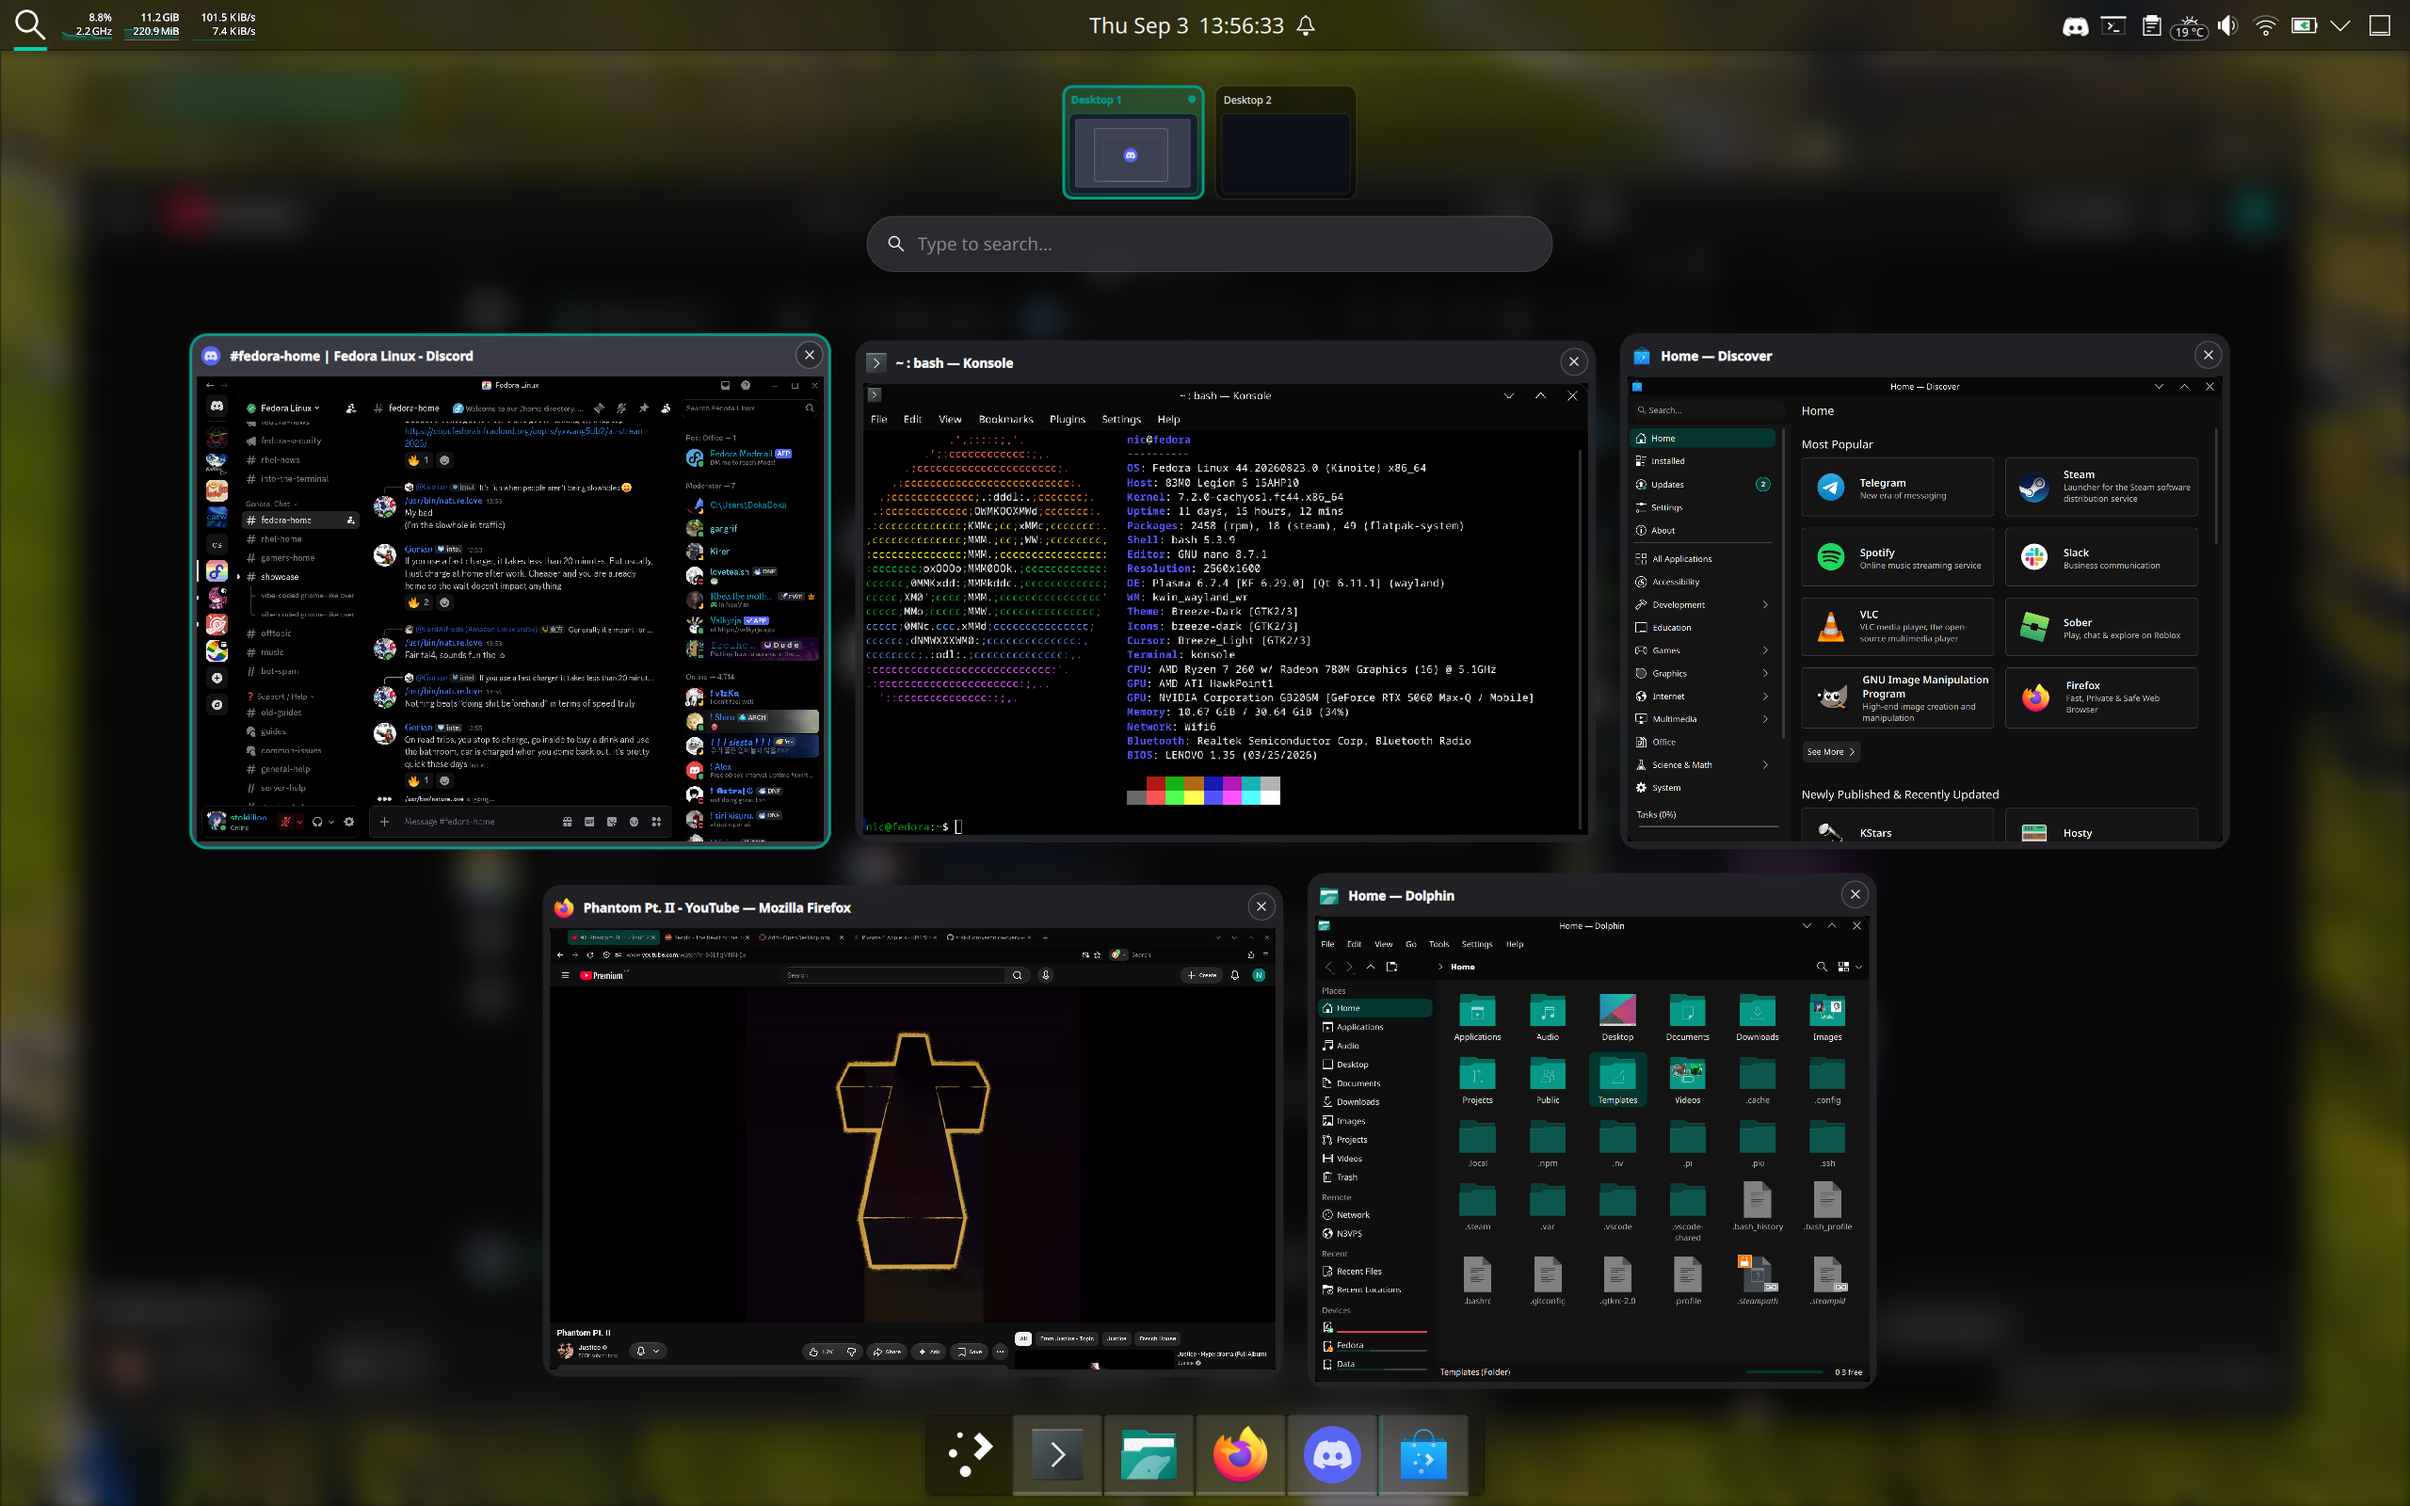
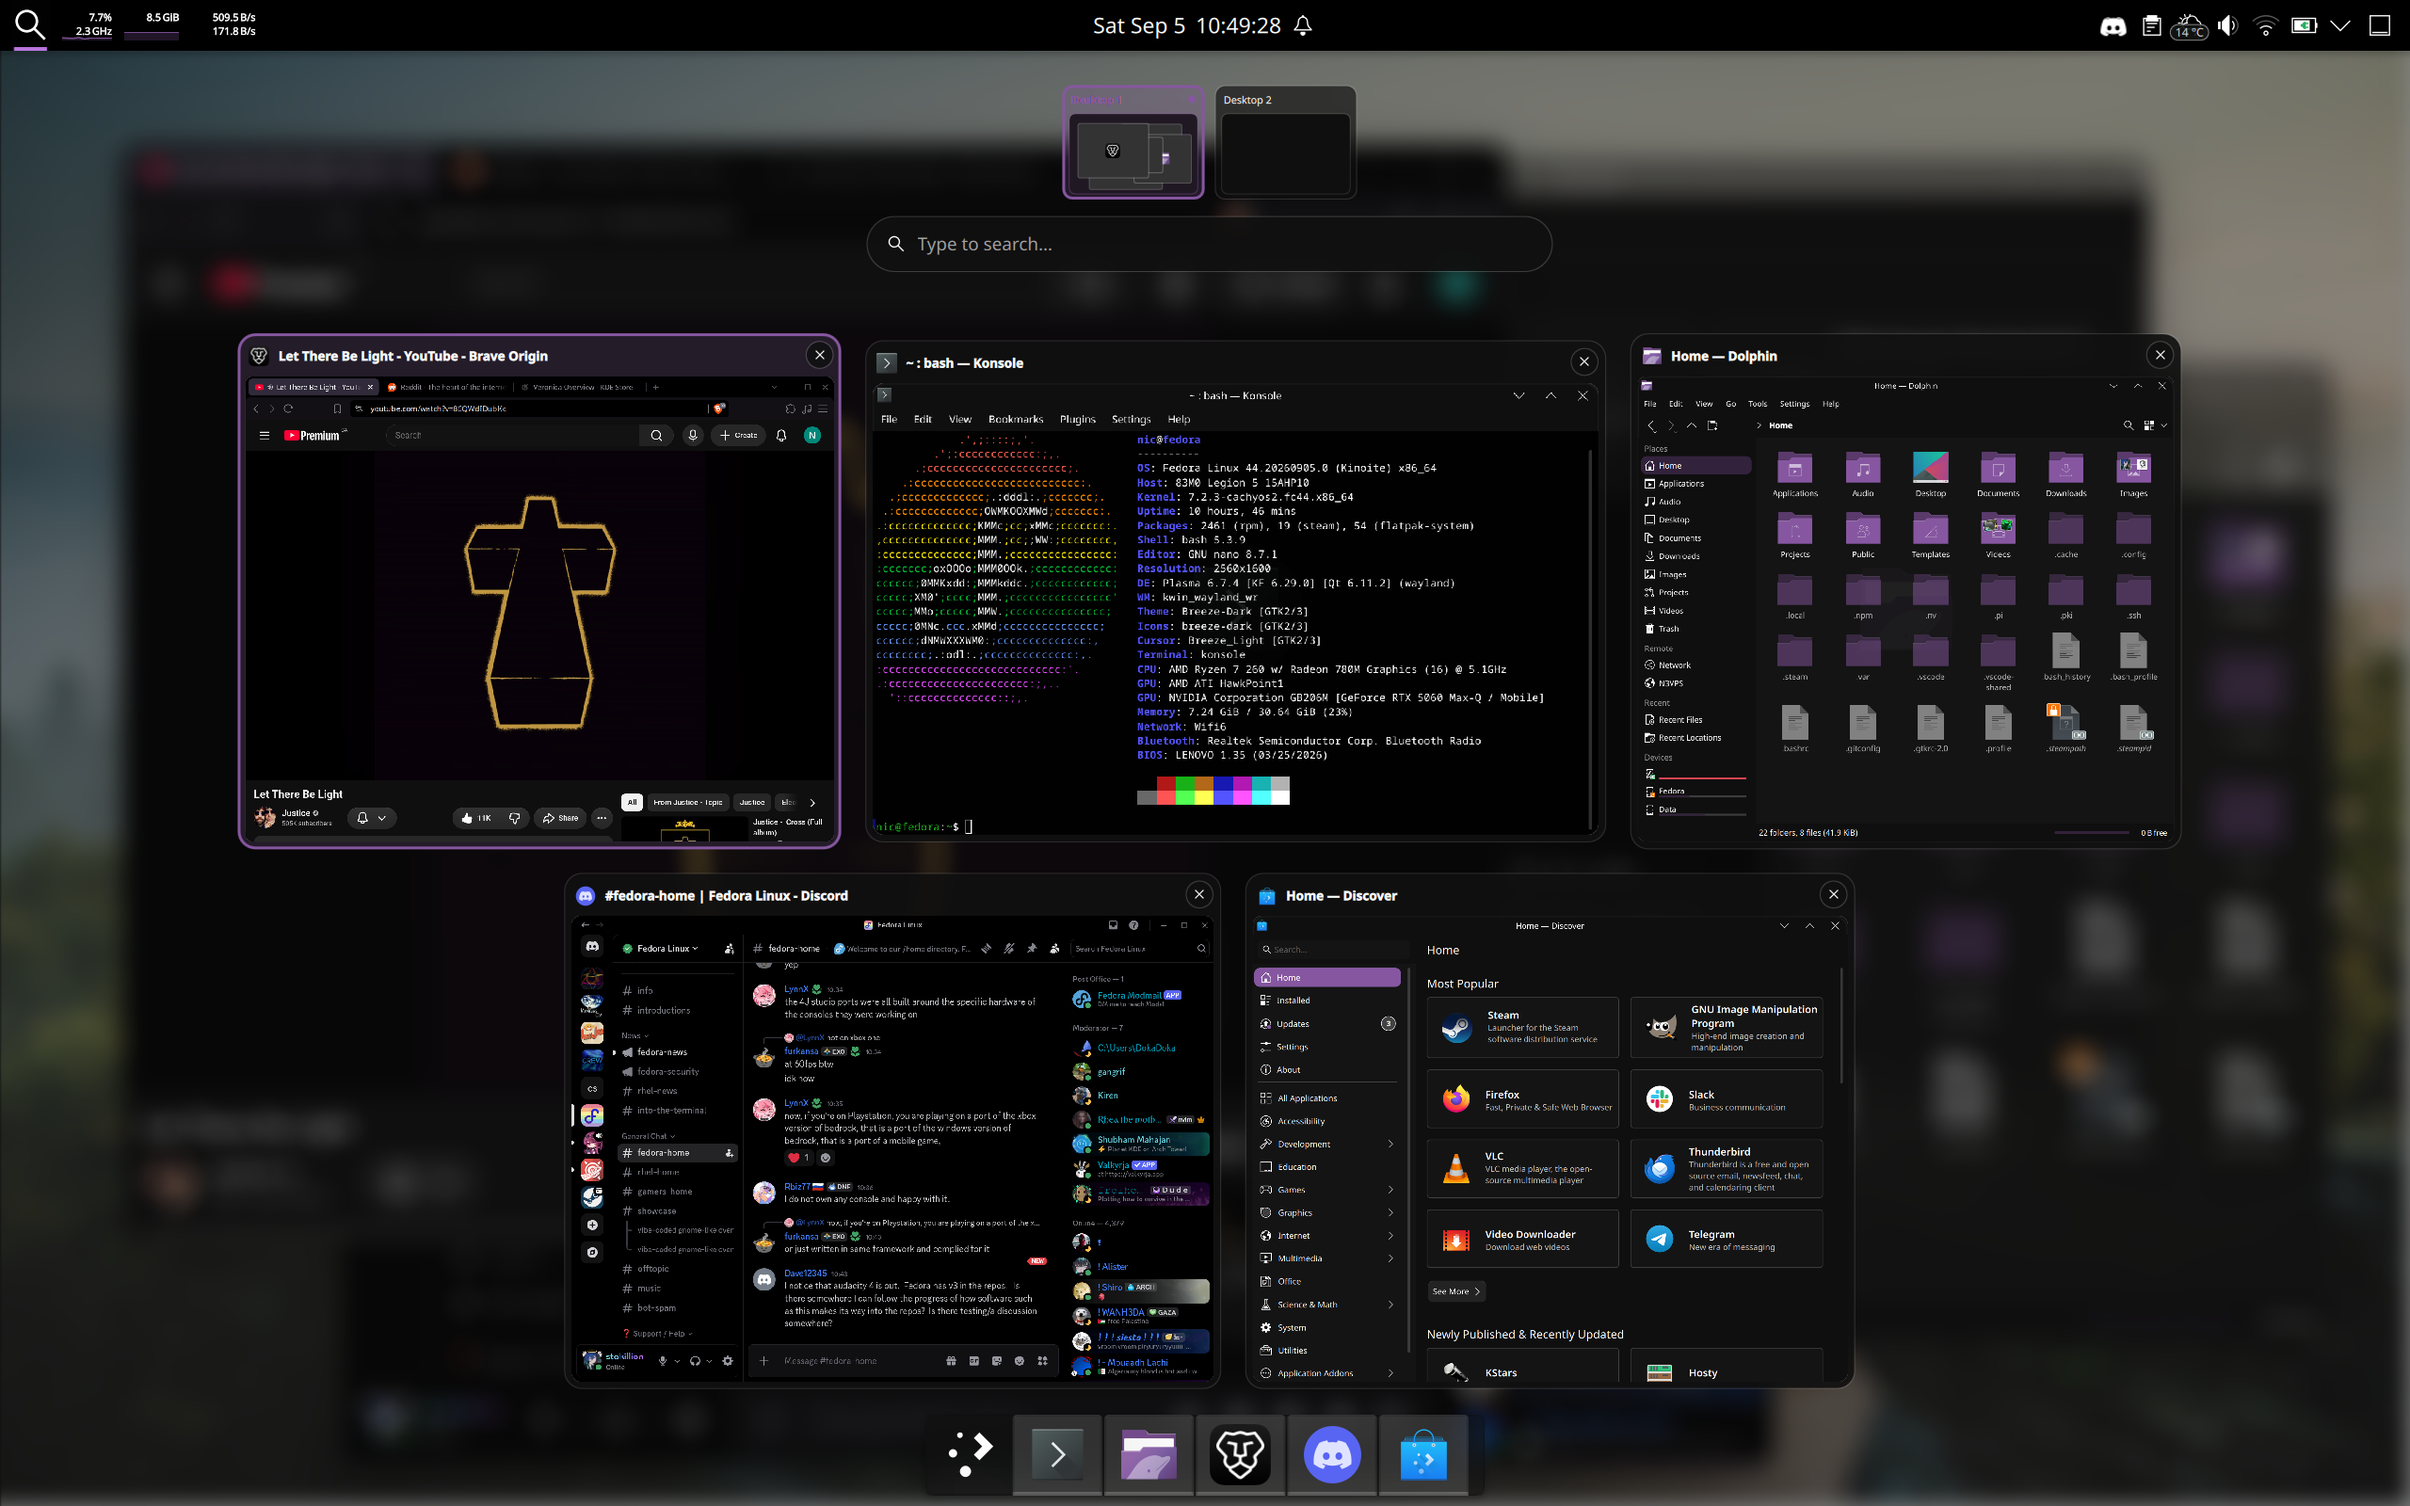
improve fade animation

diff --git a/contents/ui/main.qml b/contents/ui/main.qml
@@ -116,8 +116,8 @@ PlasmoidItem {
                     return;
                 }
 
-                // Regular unminimized application window was focused
-                root.closeOverview();
+                // Regular unminimized application window was focused (e.g. from taskbar)
+                root.closeImmediately();
             }
         }
     }
@@ -127,7 +127,18 @@ PlasmoidItem {
         return url.replace(/^file:\/\//, "");
     }
 
+    property bool kwinScriptLoaded: false
+
     function ensureKWinScriptLoaded() {
+        if (root.kwinScriptLoaded) return;
+        root.kwinScriptLoaded = true;
+        DBus.SessionBus.asyncCall({
+            service: "org.kde.KWin",
+            path: "/Scripting",
+            iface: "org.kde.kwin.Scripting",
+            member: "unloadScript",
+            arguments: [root.kwinScriptPath]
+        });
         DBus.SessionBus.asyncCall({
             service: "org.kde.KWin",
             path: "/Scripting",
@@ -160,6 +171,8 @@ PlasmoidItem {
         root.ensureKWinScriptLoaded();
         root.ignoreWindowMoveActivation = false;
         root.lastSwitchedDesktop = null;
+        root.pendingWindowActivation = null;
+        closeTimer.stop();
         if (globalFocusMonitor.activeTask && globalFocusMonitor.activeTask.valid) {
             const winIds = globalFocusMonitor.data(globalFocusMonitor.activeTask, TaskManager.AbstractTasksModel.WinIdList);
             if (winIds && winIds.length > 0) {
@@ -168,16 +181,13 @@ PlasmoidItem {
         }
 
         isOverviewOpen = true;
-        overviewOverlay.opacity = 0;
-        overviewDialog.opacity = 0;
         
         if (overviewOverlay) {
             overviewOverlay.openOverview();
         }
 
+        overviewDialog.title = "Veronica Overview:open:" + root.fadeDuration;
         overviewDialog.visible = true;
-
-        fadeInAnim.restart();
 
         // Save original hiding mode ONLY if not already in temporary state, then set dodge-windows panels to 'windowsgobelow'
         DBus.SessionBus.asyncCall({
@@ -189,11 +199,22 @@ PlasmoidItem {
         });
     }
 
+    property var pendingWindowActivation: null
+
+    function closeImmediately(callback) {
+        if (!isOverviewOpen) return;
+
+        closeTimer.stop();
+        overviewDialog.title = "Veronica Overview:instant-close";
+        root.pendingWindowActivation = callback || null;
+        root.finalizeClose();
+    }
+
     function closeOverview() {
         if (!isOverviewOpen) return;
 
-        fadeInAnim.stop();
-        fadeOutAnim.restart();
+        overviewDialog.title = "Veronica Overview:close:" + root.fadeDuration;
+        closeTimer.restart();
     }
 
     function grabOverviewFocus() {
@@ -208,6 +229,7 @@ PlasmoidItem {
     function finalizeClose() {
         isOverviewOpen = false;
         overviewDialog.visible = false;
+        overviewDialog.title = "Veronica Overview";
 
         // Restore panels back to their original hiding mode and clear temporary config key
         DBus.SessionBus.asyncCall({
@@ -217,51 +239,25 @@ PlasmoidItem {
             member: "evaluateScript",
             arguments: ["var pans = panels(); for (var i = 0; i < pans.length; i++) { pans[i].currentConfigGroup = ['General']; var orig = pans[i].readConfig('OriginalHiding'); if (orig && orig === 'dodgewindows') { pans[i].hiding = 'dodgewindows'; pans[i].writeConfig('OriginalHiding', ''); } }"]
         });
+
+        if (root.pendingWindowActivation) {
+            const activateFn = root.pendingWindowActivation;
+            root.pendingWindowActivation = null;
+            activateFn();
+        }
     }
 
     Plasmoid.onActivated: {
         root.toggleOverview();
     }
 
-    ParallelAnimation {
-        id: fadeInAnim
-        NumberAnimation {
-            target: overviewDialog
-            property: "opacity"
-            from: overviewDialog.opacity
-            to: 1
-            duration: Kirigami.Units.shortDuration
-            easing.type: Easing.OutCubic
-        }
-        NumberAnimation {
-            target: overviewOverlay
-            property: "opacity"
-            from: overviewOverlay.opacity
-            to: 1
-            duration: Kirigami.Units.shortDuration
-            easing.type: Easing.OutCubic
-        }
-    }
+    readonly property int fadeDuration: Kirigami.Units.longDuration
 
-    ParallelAnimation {
-        id: fadeOutAnim
-        NumberAnimation {
-            target: overviewDialog
-            property: "opacity"
-            from: overviewDialog.opacity
-            to: 0
-            duration: Kirigami.Units.shortDuration
-            easing.type: Easing.InCubic
-        }
-        NumberAnimation {
-            target: overviewOverlay
-            property: "opacity"
-            from: overviewOverlay.opacity
-            to: 0
-            duration: Kirigami.Units.shortDuration
-            easing.type: Easing.InCubic
-        }
-        onFinished: {
+    Timer {
+        id: closeTimer
+        interval: root.fadeDuration
+        repeat: false
+        onTriggered: {
             root.finalizeClose();
         }
     }
@@ -330,7 +326,6 @@ PlasmoidItem {
             height: overviewDialog.lockedHeight
             isOverviewOpen: root.isOverviewOpen
             lastActiveWinId: root.lastActiveWinId
-            opacity: 0
 
             onRequestDesktopSwitch: desktopId => root.recordDesktopSwitch(desktopId)
             onRequestTaskMoved: targetDesktopId => {
@@ -338,6 +333,9 @@ PlasmoidItem {
             }
             onRequestClose: {
                 root.closeOverview();
+            }
+            onRequestCloseImmediately: callback => {
+                root.closeImmediately(callback);
             }
         }
     }

diff --git a/contents/code/overviewDesktopController.js b/contents/code/overviewDesktopController.js
@@ -1,18 +1,82 @@
 /**
- * Veronica Overview - KWin Desktop Controller
+ * Veronica Overview - KWin Desktop & Compositor Controller
  * 
- * Automatically ensures the Veronica Overview window is present on all virtual
- * desktops so that desktop switching animations and pager interactions work seamlessly
- * without requiring the user to manually configure a window rule in KDE System Settings.
+ * 1. Ensures the Veronica Overview window is present on all virtual desktops.
+ * 2. Directly drives the window opacity animation inside KWin's compositor (Kirigami longDuration: 200ms),
+ *    allowing the entire window — including KWin background blur and theme
+ *    decorations — to smoothly fade in and out with zero snapping.
+ * 3. Immediately closes without animation when a window is focused.
  */
+
+var overviewWindow = null;
+var currentAnimationTimer = null;
+var FADE_DURATION = 200;
+
+function animateWindowOpacity(w, targetOpacity, duration) {
+    if (!w) return;
+    if (currentAnimationTimer) {
+        currentAnimationTimer.stop();
+        currentAnimationTimer = null;
+    }
+
+    var startOpacity = (typeof w.opacity === "number" && !isNaN(w.opacity)) ? w.opacity : 0.0;
+    if (Math.abs(startOpacity - targetOpacity) < 0.01) {
+        w.opacity = targetOpacity;
+        return;
+    }
+
+    var startTime = Date.now();
+    var timer = new QTimer();
+    currentAnimationTimer = timer;
+    timer.interval = 16;
+    timer.timeout.connect(function() {
+        var elapsed = Date.now() - startTime;
+        var progress = Math.min(1.0, elapsed / duration);
+        // OutCubic easing
+        var eased = 1.0 - Math.pow(1.0 - progress, 3);
+        w.opacity = startOpacity + (targetOpacity - startOpacity) * eased;
+        if (progress >= 1.0) {
+            timer.stop();
+            if (currentAnimationTimer === timer) {
+                currentAnimationTimer = null;
+            }
+            w.opacity = targetOpacity;
+        }
+    });
+    timer.start();
+}
 
 function setupOverviewWindow(window) {
     if (!window) return;
     var cap = window.caption || "";
-    if (cap === "Veronica Overview" && (window.resourceClass === "plasmashell" || window.resourceName === "plasmashell")) {
+    if (cap.indexOf("Veronica Overview") !== -1 && (window.resourceClass === "plasmashell" || window.resourceName === "plasmashell")) {
+        overviewWindow = window;
         if (!window.onAllDesktops) {
             window.onAllDesktops = true;
-            console.info("[Veronica Overview] Configured onAllDesktops = true for overview window");
+        }
+        window.skipsCloseAnimation = true;
+
+        if (cap.indexOf(":instant-close") !== -1) {
+            if (currentAnimationTimer) {
+                currentAnimationTimer.stop();
+                currentAnimationTimer = null;
+            }
+            window.opacity = 0.0;
+        } else {
+            var dur = FADE_DURATION;
+            var parts = cap.split(":");
+            if (parts.length >= 3) {
+                var parsed = parseInt(parts[2], 10);
+                if (!isNaN(parsed) && parsed >= 0) {
+                    dur = parsed;
+                }
+            }
+
+            if (cap.indexOf(":close") !== -1) {
+                animateWindowOpacity(window, 0.0, dur);
+            } else {
+                animateWindowOpacity(window, 1.0, dur);
+            }
         }
     }
 }
@@ -29,6 +93,14 @@ function monitorWindow(window) {
     }
 }
 
-workspace.windowAdded.connect(monitorWindow);
+workspace.windowAdded.connect(function(window) {
+    if (!window) return;
+    var cap = window.caption || "";
+    if (cap.indexOf("Veronica Overview") !== -1 && (window.resourceClass === "plasmashell" || window.resourceName === "plasmashell")) {
+        window.opacity = 0.0;
+    }
+    monitorWindow(window);
+});
+
 workspace.windowList().forEach(monitorWindow);
 console.info("[Veronica Overview] KWin desktop controller active");

diff --git a/contents/ui/OverviewOverlay.qml b/contents/ui/OverviewOverlay.qml
@@ -21,6 +21,7 @@ FocusScope {
     property int cardRadius: Plasmoid.configuration.cardBorderRadius !== undefined ? Plasmoid.configuration.cardBorderRadius : 14
 
     signal requestClose()
+    signal requestCloseImmediately(var activationCallback)
     signal requestDesktopSwitch(var desktopId)
     signal requestTaskMoved(var targetDesktopId)
 
@@ -356,7 +357,10 @@ FocusScope {
                     overviewOpen: root.isOverviewOpen
                     layoutRefreshTick: carouselTrack.layoutRefreshTick
 
-                    onTaskActivated: root.dismissOverview()
+                    onTaskActivated: activationCallback => {
+                        if (searchBar) searchBar.text = "";
+                        root.requestCloseImmediately(activationCallback);
+                    }
                     onTaskClosed: {
                         carouselTrack.layoutRefreshTick++;
                     }
@@ -506,7 +510,8 @@ FocusScope {
                 queryString: searchBar.text
                 onActivated: {
                     Qt.callLater(() => {
-                        root.dismissOverview();
+                        if (searchBar) searchBar.text = "";
+                        root.requestCloseImmediately();
                     });
                 }
             }

diff --git a/contents/ui/WindowGrid.qml b/contents/ui/WindowGrid.qml
@@ -21,7 +21,7 @@ Item {
     property int layoutRefreshTick: 0
     property var lastActiveWinId: null
 
-    signal taskActivated()
+    signal taskActivated(var activationCallback)
     signal taskClosed()
     signal emptyAreaClicked()
     signal windowDragStarted(int pageIndex, int taskRow, var winIds, string title, var icon, string appName, real cardW, real cardH, real aspect, real globalOriginX, real globalOriginY, real grabX, real grabY)
@@ -42,9 +42,17 @@ Item {
 
     function activateTask(taskRow) {
         if (taskRow >= 0 && taskRow < pageTasksModel.count) {
-            pageTasksModel.requestActivate(pageTasksModel.makeModelIndex(taskRow));
+            const targetIndex = pageTasksModel.makeModelIndex(taskRow);
+            pageRoot.taskActivated(() => {
+                if (targetIndex && targetIndex.valid) {
+                    pageTasksModel.requestActivate(targetIndex);
+                } else if (taskRow >= 0 && taskRow < pageTasksModel.count) {
+                    pageTasksModel.requestActivate(pageTasksModel.makeModelIndex(taskRow));
+                }
+            });
+        } else {
+            pageRoot.taskActivated(null);
         }
-        pageRoot.taskActivated();
     }
 
     function closeTask(taskRow) {
